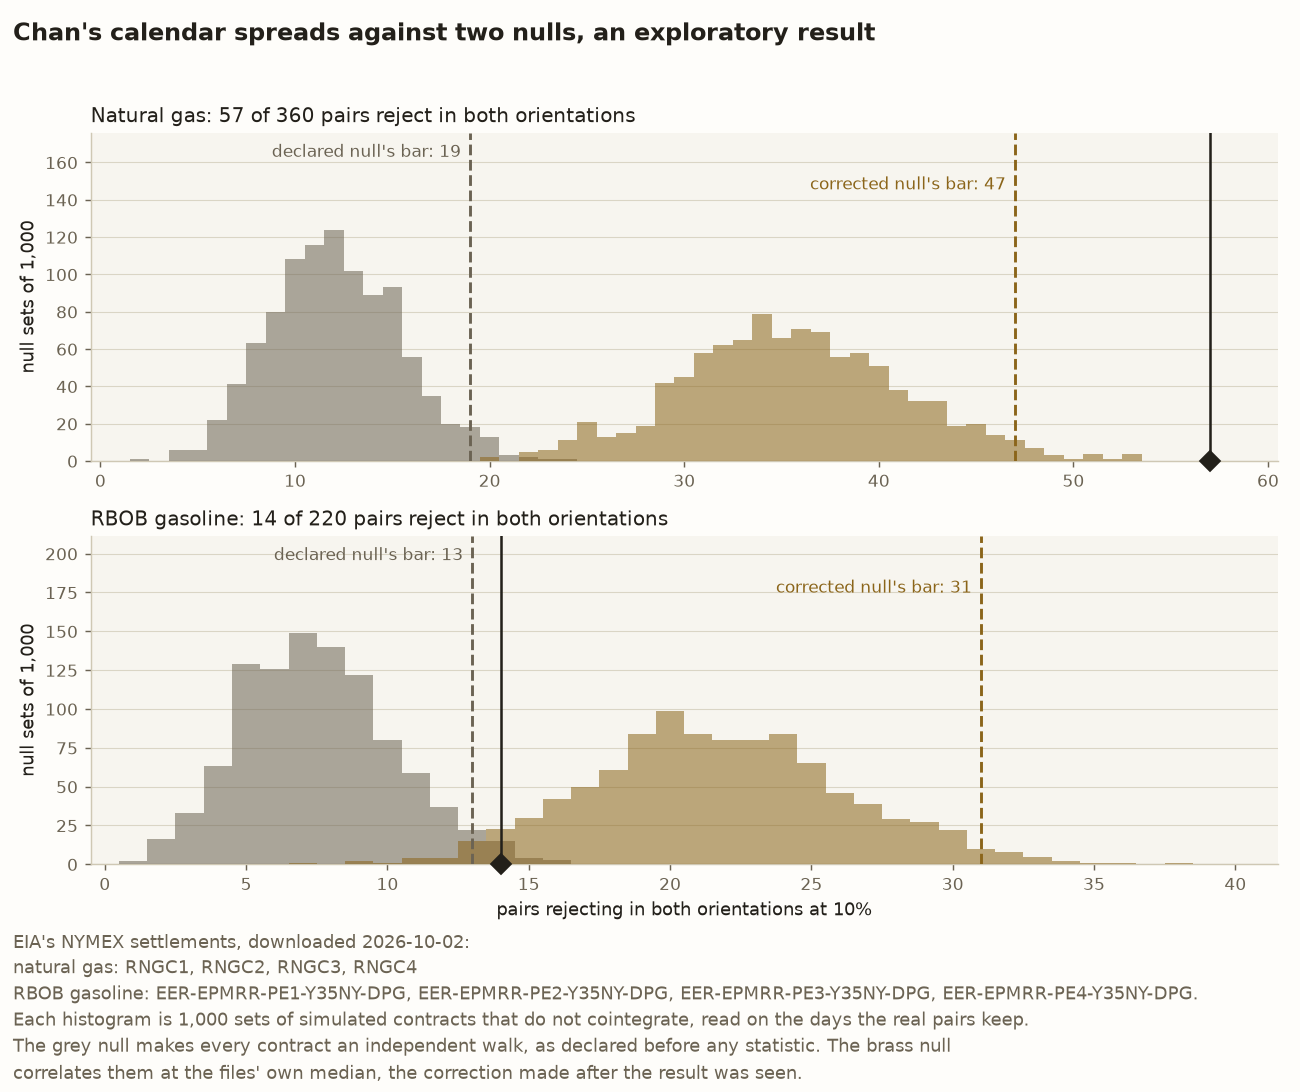
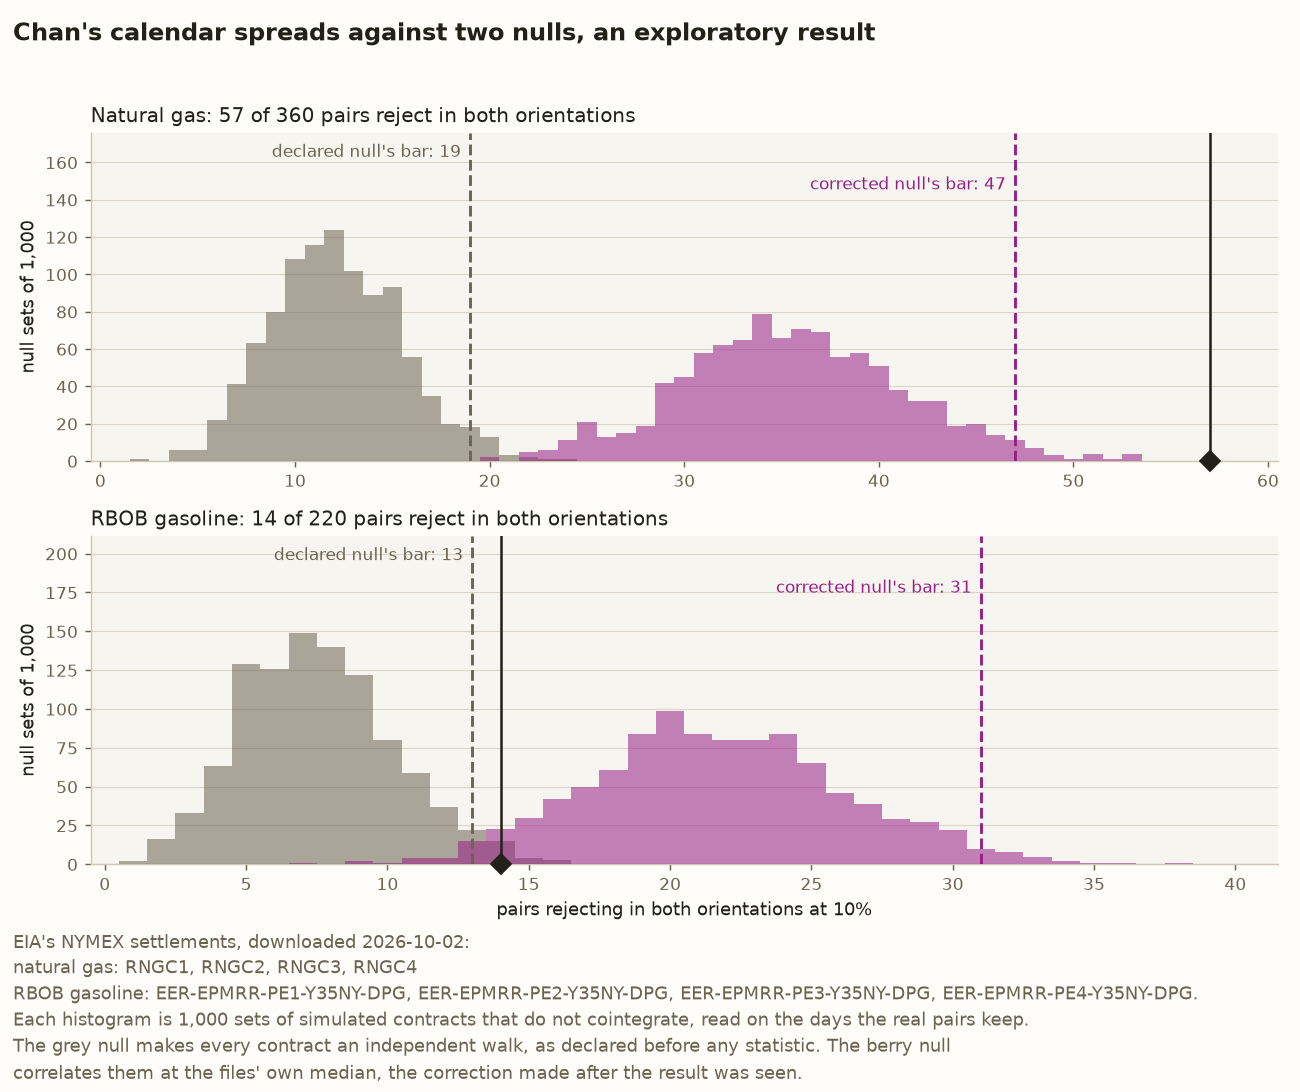
feat(palette): move the calendar spreads post's figures to the colour-blind-safe palette (#745)
* feat(palette): move the calendar spreads post's figures to the colour-blind-safe palette

The post's chart and both whiteboard sketches now draw in chan.palette's
berry and vermilion instead of the shared brass and red. The sketch module
passes chan.palette.INKS to render, and a new test holds every frame of each
GIF to that palette. The alt text, the chart's note, the docstrings, the tests
and the README's line on the sketch name the new colours.

Part of #624

* fix(palette): sort the palette imports, hold each GIF frame by its colours, and fix the window alt-text pin

Pillow opens every GIF frame after the first as RGB, so the frame test now
checks the colours each frame draws in against the palette of
chan.palette.INKS. The window sketch's alt-text test pinned the old red
crosses. The module docstring no longer claims more for the palette than
tests/test_palette.py holds.

Part of #624

---------

diff --git a/tests/test_calendar_spreads_whiteboard.py b/tests/test_calendar_spreads_whiteboard.py
@@ -17,9 +17,10 @@ window and dropped days.
 What is pinned for each:
 
 1. Its words, the exact labels in order, and that each prints its figure.
-2. Its inks: black for the circles and lanes, brass for what both
+2. Its inks: black for the circles and lanes, berry for what both
    orientations share and for each closing line, grey for axes and notes, and
-   red for the dropped days.
+   vermilion for the dropped days. Every frame maps onto
+   :data:`chan.palette.INKS`.
 3. Its geometry. Each circle's area and the two circles' shared area stand to
    one scale for their counts, and other figures move them. Each expiry tick,
    lane stretch, dot and cross stands at its trading day.
@@ -82,8 +83,9 @@ from chan.futures import (
     next_trading_day,
     previous_trading_day,
 )
+from chan.palette import ACCENT, INKS, LOST
 from chan.paths import FIGURES_DIR, REPO_ROOT
-from chan.regime_figure import ACCENT, INK, LOST, MUTED
+from chan.regime_figure import INK, MUTED
 from chan.usdcad_tests_whiteboard import (
     HEIGHT,
     HOLD_MS,
@@ -321,7 +323,7 @@ class TestBothOrientations:
 
     @pytest.mark.parametrize("figures", [PINNED, OTHER], ids=["pinned", "other"])
     def test_the_overlap_is_what_both_share_to_the_same_scale(self, figures, window) -> None:
-        """The brass outline encloses the area of the pairs rejecting both
+        """The berry outline encloses the area of the pairs rejecting both
         ways, and so does the geometry of the two circles it is drawn from."""
         scene = scenes(figures, window)[0]
         for key in ("independent", "correlated"):
@@ -653,6 +655,21 @@ class TestTheGifs:
         for path in gifs:
             assert path.stat().st_size < 1_000_000, path.name
 
+    def test_every_frame_draws_in_the_colour_blind_safe_inks(self, gifs) -> None:
+        """Without :data:`chan.palette.INKS` the renderer maps each frame onto
+        the shared brass, green and red, whatever ink a stroke names."""
+        flat = whiteboard.palette(INKS).getpalette()
+        inks = {tuple(flat[i : i + 3]) for i in range(0, len(flat), 3)}
+        for path in gifs:
+            with Image.open(path) as image:
+                assert image.getpalette() == flat, path.name
+                # Pillow hands back every frame after the first as RGB, so
+                # each of those is held by the colours it draws in.
+                for k in range(1, image.n_frames):
+                    image.seek(k)
+                    drawn = {rgb for _, rgb in image.convert("RGB").getcolors(256)}
+                    assert drawn <= inks, (path.name, k, drawn - inks)
+
     def test_two_draws_give_the_same_bytes(self, gifs, tmp_path, window) -> None:
         again = make_calendar_spreads_whiteboards(
             out_dir=tmp_path, orientations=PINNED, window=window
@@ -757,7 +774,7 @@ class TestThePost:
         assert f"breaks into {words[len(window.stretches)]} stretches" in alt
         assert "a new one starting the day after each expiry inside the window" in alt
         assert "Beneath it a lane labelled “July, far”" in alt
-        assert f"{ {6: 'six'}[len(window.dropped)] } red crosses" in alt
+        assert f"{ {6: 'six'}[len(window.dropped)] } vermilion crosses" in alt
         assert "on each expiry inside it and the day after" in alt
         assert f"late May {window.window[-1].year}" in alt
 

diff --git a/src/chan/calendar_spreads_whiteboard.py b/src/chan/calendar_spreads_whiteboard.py
@@ -21,9 +21,12 @@ places each right after the text it draws.
    each window drops". The June 2018 natural gas pair on a time axis of
    trading days from late February to late May 2018: the four expiries it
    rests on, its window, which numbered file each leg is read from on each
-   day, the days it keeps as dots, and the six it drops as red crosses. Its
-   figures are :class:`OneWindow`, read from the calendar and the committed
-   files through the functions the run uses.
+   day, the days it keeps as grey dots, and the six it drops as vermilion
+   crosses. Its figures are :class:`OneWindow`, read from the calendar and the
+   committed files through the functions the run uses. A reader blind to red
+   sees the vermilion and the grey as close, closer than
+   ``tests/test_palette.py`` allows any other pair, so each dropped day's
+   cross shape marks it as well as its colour.
 
 Neither scene is schematic. Every count and date a label prints, and every
 size and position the counts and dates set, comes from those two classes. The
@@ -37,10 +40,13 @@ than four, as :data:`PACED` lists. That is the pace
 :mod:`chan.equity_seasonals_whiteboard` gives its slower sketches.
 
 The drawing machinery is :mod:`chan.usdcad_tests_whiteboard`'s, reused rather
-than copied, so these GIFs share that post's look, frame rate and colours.
-Only the scenes, their pace and the file names are this module's. Each GIF is
-named :data:`GIF_PREFIX` plus the scene's slug. The sketches are deterministic
-for the reason that module gives, so a redraw with no change is a no-op diff.
+than copied, so these GIFs share that post's look and frame rate. Their
+colours come from :mod:`chan.palette` rather than that module, so
+:func:`render` gets :data:`chan.palette.INKS` and maps every frame onto them.
+Only the scenes, their pace and the file names are this module's. Each GIF
+is named :data:`GIF_PREFIX` plus the scene's slug. The sketches are
+deterministic for the reason that module gives, so a redraw with no change is
+a no-op diff.
 Redraw both with::
 
     uv run python -m chan.calendar_spreads_whiteboard
@@ -69,8 +75,9 @@ from chan.futures import (
     previous_trading_day,
     trading_days,
 )
+from chan.palette import ACCENT, INKS, LOST
 from chan.paths import FIGURES_DIR
-from chan.regime_figure import ACCENT, LOST, MUTED
+from chan.regime_figure import MUTED
 from chan.usdcad_tests_whiteboard import (
     Frame,
     Label,
@@ -520,7 +527,7 @@ def sketch_timeline(scene: Scene) -> list[Frame]:
 
 def _write(scene: Scene, folder: Path) -> Path:
     frames = sketch_timeline(scene)
-    first, *rest = render(scene, frames)
+    first, *rest = render(scene, frames, INKS)
     path = folder / gif_name(scene)
     first.save(
         path,

diff --git a/tests/test_calendar_spread_figures.py b/tests/test_calendar_spread_figures.py
@@ -32,8 +32,9 @@ from chan.calendar_spread_figures import (
     spreads,
 )
 from chan.futures import settlements
+from chan.palette import ACCENT, GOOD, LOST
 from chan.paths import FIGURES_DIR
-from chan.regime_figure import ACCENT, GOOD, INK, LOST, MUTED
+from chan.regime_figure import INK, MUTED
 from chan.stationary_candidates import SPREAD_PRODUCTS
 from chan.vintage import VintageUnavailable
 
@@ -129,7 +130,7 @@ class TestTheRealCount:
         assert drawn[f"{name}-real-line"].get_zorder() > max(b.get_zorder() for b in bins)
 
     def test_the_line_and_marker_wear_neither_null_s_colour(self, figure) -> None:
-        """In grey or brass the real count would read as one of the nulls."""
+        """In grey or berry the real count would read as one of the nulls."""
         drawn = _by_gid(figure)
         for name, _, _ in PANELS:
             line, marker = drawn[f"{name}-real-line"], drawn[f"{name}-real"]
@@ -193,8 +194,8 @@ class TestTheHistograms:
         bins = [*_by_gid(figure)[f"{name}-declared-bin"], *_by_gid(figure)[f"{name}-corrected-bin"]]
         assert ax.get_ylim()[1] >= 1.3 * max(b.get_height() for b in bins)
 
-    def test_the_note_s_grey_and_brass_are_the_nulls_colours(self) -> None:
-        """The note names the declared null grey and the corrected one brass."""
+    def test_the_note_s_grey_and_berry_are_the_nulls_colours(self) -> None:
+        """The note names the declared null grey and the corrected one berry."""
         assert (DECLARED_COLOUR, CORRECTED_COLOUR) == (MUTED, ACCENT)
 
     def test_the_two_nulls_wear_different_colours(self) -> None:
@@ -246,7 +247,7 @@ class TestTheWords:
         assert note.replace("\n", " ").endswith(
             "Each histogram is 1,000 sets of simulated contracts that do not cointegrate, "
             "read on the days the real pairs keep. The grey null makes every contract an "
-            "independent walk, as declared before any statistic. The brass null correlates "
+            "independent walk, as declared before any statistic. The berry null correlates "
             "them at the files' own median, the correction made after the result was seen."
         )
 

diff --git a/src/chan/calendar_spread_figures.py b/src/chan/calendar_spread_figures.py
@@ -43,8 +43,9 @@ from matplotlib.figure import Figure
 from numpy.typing import NDArray
 
 from chan.coin_flip_figures import _plain_text, _save, _style, _title
+from chan.palette import ACCENT
 from chan.paths import FIGURES_DIR
-from chan.regime_figure import ACCENT, INK, MUTED, SURFACE
+from chan.regime_figure import INK, MUTED, SURFACE
 from chan.stationary_candidates import SPREAD_PRODUCTS, CalendarSpread, calendar_spread
 from chan.vintage import VintageUnavailable
 
@@ -166,7 +167,7 @@ def make_nulls_figure(
         f"EIA's NYMEX settlements, downloaded {DOWNLOADED}:\n{symbols}.\n"
         "Each histogram is 1,000 sets of simulated contracts that do not cointegrate, "
         "read on the days the real pairs keep.\nThe grey null makes every contract an "
-        "independent walk, as declared before any statistic. The brass null\ncorrelates "
+        "independent walk, as declared before any statistic. The berry null\ncorrelates "
         "them at the files' own median, the correction made after the result was seen.",
     )
     fig.tight_layout(rect=(0, 0.14, 1, 0.96))

diff --git a/blog/calendar-spreads-lessons.md b/blog/calendar-spreads-lessons.md
@@ -80,11 +80,11 @@ Four points explain how the result moved from the first reading to the second.
 3. **The correction.** The repository’s owner ruled on 3 October 2026 to judge both commodities again, against walks whose daily changes correlate at each commodity’s own median. Each simulated contract became the square root of that correlation times one walk shared by the whole commodity, plus the square root of one minus it times a walk of its own. In symbols, contract i is Xᵢ = √ρ · W + √(1 − ρ) · Zᵢ, where ρ is the commodity’s median correlation, W is the shared walk and Zᵢ is contract i’s own. The correction raised both bars, so it made a pass harder rather than easier, and it was not chosen to make the claim pass. It moved RBOB’s verdict and left natural gas’s where it was.
 4. **How far each verdict sits from its bar.** None of the 1,000 correlated null sets reaches natural gas’s 57, and 973 of them reach RBOB’s 14. Natural gas clears its bar by ten pairs, and RBOB falls seventeen short. That count of null sets was added after the verdicts were seen, because a bar alone does not say how close a verdict sat to it.
 
-![Two panels of histograms, one per commodity, counting pairs that reject in both orientations at 10% on the horizontal axis, and on the vertical the number of null sets, out of 1,000, giving each count. The upper panel is natural gas, 57 of 360 pairs. A grey histogram of 1,000 sets of independent walks is centred near its median of 12 pairs, with the 975th smallest of its 1,000 counts marked as a dashed grey line at 19. A brass histogram of 1,000 sets of walks correlated as the files are is centred near its median of 35, with its dashed line at 47. A solid dark line at 57 sits past both. The lower panel is RBOB gasoline, 14 of 220 pairs. Its grey histogram is centred near its median of 7 with its bar at 13, and its brass histogram near its median of 21.5 with its bar at 31. The solid line at 14 sits just past the grey bar and at the low end of the brass histogram, with 973 of the 1,000 brass sets at or above it.](../docs/figures/calendar_spread_nulls.png)
+![Two panels of histograms, one per commodity, counting pairs that reject in both orientations at 10% on the horizontal axis, and on the vertical the number of null sets, out of 1,000, giving each count. The upper panel is natural gas, 57 of 360 pairs. A grey histogram of 1,000 sets of independent walks is centred near its median of 12 pairs, with the 975th smallest of its 1,000 counts marked as a dashed grey line at 19. A berry histogram of 1,000 sets of walks correlated as the files are is centred near its median of 35, with its dashed line at 47. A solid dark line at 57 sits past both. The lower panel is RBOB gasoline, 14 of 220 pairs. Its grey histogram is centred near its median of 7 with its bar at 13, and its berry histogram near its median of 21.5 with its bar at 31. The solid line at 14 sits just past the grey bar and at the low end of the berry histogram, with 973 of the 1,000 berry sets at or above it.](../docs/figures/calendar_spread_nulls.png)
 
 *Each histogram is 1,000 sets of simulated contracts that do not cointegrate. Correlating them as the files are moves the whole histogram right. Natural gas stays past both bars, and gasoline falls short of the corrected bar, at the low end of its histogram.*
 
-![An animated whiteboard sketch titled “What requiring both orientations removes”, drawn slowly stroke by stroke in two panels, with each circle’s area to scale with a count of natural gas pairs. The left panel, “independent walks”, draws a black circle labelled “near on far: 38” above a black circle labelled “far on near: 38”. They overlap in a brown lens labelled “both: 12”, about a third of each circle. The right panel, “walks correlated as the files are”, draws the same two circles, “near on far: 38” and “far on near: 38”, almost on top of each other, so their brown lens, labelled “both: 35”, fills nearly all of each. A grey note reads “medians of 1,000 null sets of 360 natural gas pairs”, and the brown words “the files: 62 and 62 alone, 57 both” close the sketch. The finished drawing holds for twelve seconds.](../docs/figures/calendar_spreads_both_orientations.gif)
+![An animated whiteboard sketch titled “What requiring both orientations removes”, drawn slowly stroke by stroke in two panels, with each circle’s area to scale with a count of natural gas pairs. The left panel, “independent walks”, draws a black circle labelled “near on far: 38” above a black circle labelled “far on near: 38”. They overlap in a berry lens labelled “both: 12”, about a third of each circle. The right panel, “walks correlated as the files are”, draws the same two circles, “near on far: 38” and “far on near: 38”, almost on top of each other, so their berry lens, labelled “both: 35”, fills nearly all of each. A grey note reads “medians of 1,000 null sets of 360 natural gas pairs”, and the berry words “the files: 62 and 62 alone, 57 both” close the sketch. The finished drawing holds for twelve seconds.](../docs/figures/calendar_spreads_both_orientations.gif)
 
 Give the null every feature the data has whether or not the claim is true, such as how closely neighbouring contracts move. When the null is corrected after the result is seen, report both verdicts.
 
@@ -114,7 +114,7 @@ EIA numbers its files by expiry, so contract 1 is whichever contract stops tradi
 1. **Each pair rests on four expiries.** A pair reads its two contracts through the numbered files for about three months. Its window opens the day after the expiry of the contract delivered three months before the near one, which for a June pair is the March contract. It crosses two more expiries and closes on the near contract’s own last day.
 2. **Where a one-day error lands.** Each window drops its first and last days, and each expiry inside it together with the day after. Those six are the only days a rule one day wrong could misread. On every day a pair keeps, a rule moved a day either way reads the same two prices.
 
-![An animated whiteboard sketch titled “One window, four expiries”, drawn slowly stroke by stroke on a grey axis of trading days from late February to late May 2018. Four grey ticks with dashed guides mark the expiries the June pair rests on, labelled “Mar expires 26 Feb”, “Apr expires 27 Mar”, “May expires 26 Apr” and “Jun expires 29 May”. A black bracket from the day after the first expiry to the last is labelled “the window: 64 trading days”. A thick black lane labelled “June, near” breaks into three stretches, “file 3”, “file 2” and “file 1”, a new one starting the day after each expiry inside the window. Beneath it a lane labelled “July, far” breaks on the same days into “file 4”, “file 3” and “file 2”. A row of grey dots under both lanes is labelled “58 kept”, and six red crosses sit on the window’s first day, on each expiry inside it and the day after, and on its last day. The brown words “a rule a day off misreads only the crossed days” close the sketch. The finished drawing holds for twelve seconds.](../docs/figures/calendar_spreads_one_window.gif)
+![An animated whiteboard sketch titled “One window, four expiries”, drawn slowly stroke by stroke on a grey axis of trading days from late February to late May 2018. Four grey ticks with dashed guides mark the expiries the June pair rests on, labelled “Mar expires 26 Feb”, “Apr expires 27 Mar”, “May expires 26 Apr” and “Jun expires 29 May”. A black bracket from the day after the first expiry to the last is labelled “the window: 64 trading days”. A thick black lane labelled “June, near” breaks into three stretches, “file 3”, “file 2” and “file 1”, a new one starting the day after each expiry inside the window. Beneath it a lane labelled “July, far” breaks on the same days into “file 4”, “file 3” and “file 2”. A row of grey dots under both lanes is labelled “58 kept”, and six vermilion crosses sit on the window’s first day, on each expiry inside it and the day after, and on its last day. The berry words “a rule a day off misreads only the crossed days” close the sketch. The finished drawing holds for twelve seconds.](../docs/figures/calendar_spreads_one_window.gif)
 
 ### The rule checked against the files
 

diff --git a/README.md b/README.md
@@ -3942,7 +3942,7 @@ on the USD.CAD post's sketch machinery. Each sits after the text it draws.
    six days each window drops", draws the June 2018 natural gas pair's window
    on an axis of trading days: the four expiries it rests on, which numbered
    file each leg reads on each day, its 58 kept days, and its six dropped days
-   as red crosses.
+   as vermilion crosses.
 
 Both sketches build more slowly than the USD.CAD post's and hold their
 finished drawings for twelve seconds, because each carries more than the usual
